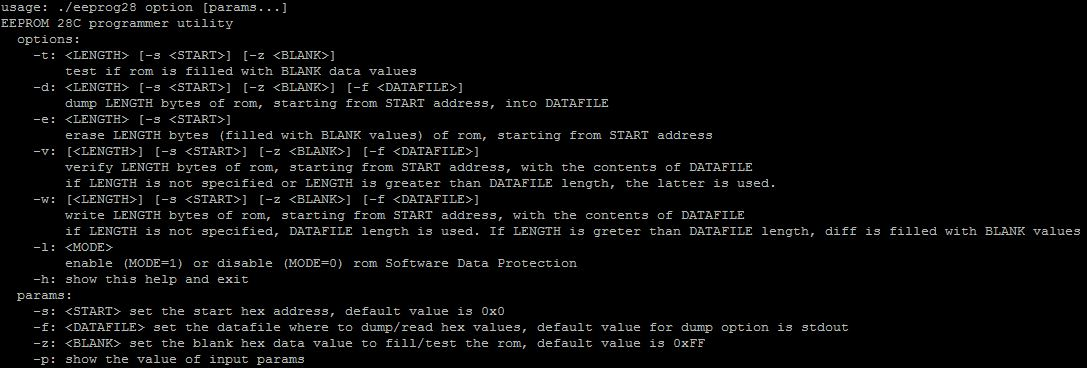
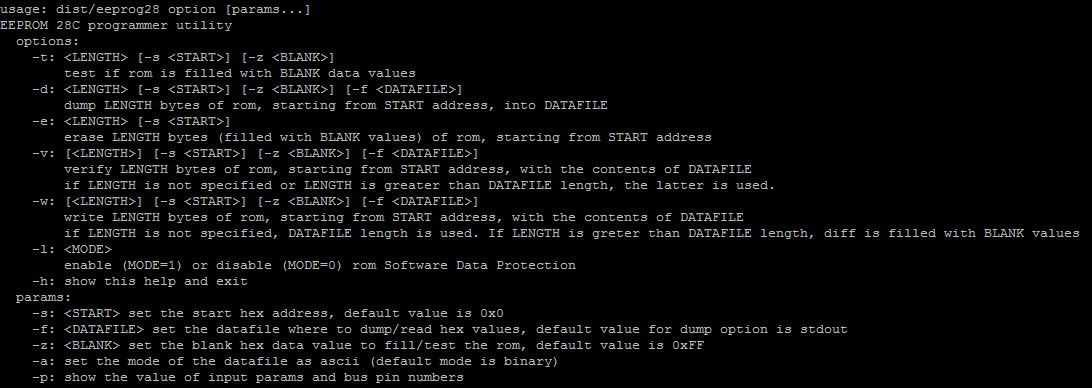
Add software -a option to set datafile mode ascii/binary

Changed region(s): [[0.0, 0.0, 1.0, 0.9864]]

diff --git a/software/src/main.c b/software/src/main.c
@@ -37,6 +37,7 @@ int main(int argc, char **argv)
     unsigned char w_flag = 0;
     unsigned char v_flag = 0;
     unsigned char l_flag = 0;
+    unsigned char a_flag = 0;
     unsigned char p_flag = 0;
     unsigned int start = 0;
     unsigned int length = 0;
@@ -49,7 +50,7 @@ int main(int argc, char **argv)
     wiringPiSetup();
     setup();
 
-    while ((c = getopt(argc, argv, "s:f:z:t:d:e:w::v::l:ph")) != -1)
+    while ((c = getopt(argc, argv, "s:f:z:t:d:e:w::v::l:aph")) != -1)
     {
         switch (c)
         {
@@ -86,6 +87,9 @@ int main(int argc, char **argv)
                 l_flag = 1;
                 if (optarg) sscanf(optarg, "%c", &mode);
                 break;
+            case 'a':
+                a_flag = 1;
+                break;
             case 'p':
                 p_flag = 1;
                 break;
@@ -112,6 +116,7 @@ int main(int argc, char **argv)
                 printf("    -s: <START> set the start hex address, default value is 0x0\n");
                 printf("    -f: <DATAFILE> set the datafile where to dump/read hex values, default value for dump option is stdout\n");
                 printf("    -z: <BLANK> set the blank hex data value to fill/test the rom, default value is 0xFF\n");
+                printf("    -a: set the mode of the datafile as ascii (default mode is binary)\n");
                 printf("    -p: show the value of input params and bus pin numbers\n");
                 return 0;
             case '?':
@@ -132,7 +137,7 @@ int main(int argc, char **argv)
 
     if (p_flag)
     {
-        printf("start-address=%.5X, data-length=%.5X, zero-byte=%.2X, data-file=%s, SDP=%d\n", start, length, zerobyte, filename, mode);
+        printf("start-address=%.5X, data-length=%.5X, zero-byte=%.2X, data-file=%s, data-file-mode=%s, SDP=%d\n", start, length, zerobyte, filename, (a_flag? "ascii":"binary"), mode);
         printf("address bus pins: ");
         for (unsigned char ii=0; ii<BUS_SIZE(A); ii++) printf("%d ", A[ii]);
         printf("\ndata bus pins: ");
@@ -141,7 +146,7 @@ int main(int argc, char **argv)
     }
     if (t_flag)
     {
-        uint32_t count;
+        length_t count;
         if ((count = testROM(start, length, zerobyte)))
             printf("ROM is not empty, found %d data bytes\n", count);
         else
@@ -164,12 +169,31 @@ int main(int argc, char **argv)
         printf("ROM erased.\n");
         return 0;
     }
-    if (w_flag)
+    if (w_flag && !a_flag)
+    {
+        data_t data = 0;
+        address_t address = 0;
+        if (filename) fp = fopen(filename, "rb");
+        printf("Writing ROM with contents of binary file: %s from start 0x%X...\n", filename, start);
+        while (!feof(fp) && address<length)
+        {
+            fread(&data, sizeof(data_t), 1, fp); 
+            writeROM(start+address, data);
+            waitForWriteCycle(start+address, data);
+            address++;
+        }
+        if (filename) fclose(fp);
+        if (address<length)
+            eraseROM(start+address, length-address, zerobyte);
+        printf("0x%X locations of ROM wrote.\n", address);
+        return 0;
+    }
+    if (w_flag && a_flag)
     {
         unsigned int data = 0;
-        uint32_t address = 0;
+        address_t address = 0;
         if (filename) fp = fopen(filename, "r");
-        printf("Writing ROM with contents of file: %s from start 0x%X...\n", filename, start);
+        printf("Writing ROM with contents of ascii file: %s from start 0x%X...\n", filename, start);
         while (fscanf(fp, "%2X", &data) == 1 && address<length)
         {
             writeROM(start+address, data);
@@ -182,25 +206,54 @@ int main(int argc, char **argv)
         printf("0x%X locations of ROM wrote.\n", address);
         return 0;
     }
-    if (v_flag)
+    if (v_flag && !a_flag)
     {
-        unsigned int data = 0;
-        int actual = 0;
-        uint32_t address = 0;
-        if (filename) fp = fopen(filename, "r");
+        address_t address = 0;
+        data_t data = 0;
+        data_t actual = 0;
+        char result = 1;
+        if (filename) fp = fopen(filename, "rb");
         if (!length) length = -1;
-        printf("Verifying ROM with contents of file: %s from start 0x%X...\n", filename, start);
-        while (fscanf(fp, "%2X", &data) == 1 && address-length)
+        printf("Verifying ROM with contents of binary file: %s from start 0x%X...\n", filename, start);
+        while (!feof(fp) && address-length)
         {
+            result = 0;
+            fread(&data, sizeof(data_t), 1, fp);
             actual = readROM(start+address++);
             if (data != actual)
             {
-                data = -1;
+                result = 1;
                 break;
             }
         } 
         if (filename) fclose(fp);
-        if (data == -1)
+        if (result)
+            printf("verify error, found 0x%X at location 0x%X.\n", actual, --address);
+        else
+            printf("verify done.\n");
+        return 0;
+    }
+    if (v_flag && a_flag)
+    {
+        address_t address = 0;
+        unsigned int data = 0;
+        unsigned int actual = 0;
+        char result = 1;
+        if (filename) fp = fopen(filename, "r");
+        if (!length) length = -1;
+        printf("Verifying ROM with contents of ascii file: %s from start 0x%X...\n", filename, start);
+        while (fscanf(fp, "%2X", &data) == 1 && address-length)
+        {
+            result = 0;
+            actual = readROM(start+address++);
+            if (data != actual)
+            {
+                result = 1;
+                break;
+            }
+        } 
+        if (filename) fclose(fp);
+        if (result)
             printf("verify error, found 0x%X at location 0x%X.\n", actual, --address);
         else
             printf("verify done.\n");

diff --git a/software/src/eeprom.c b/software/src/eeprom.c
@@ -35,7 +35,7 @@ uint8_t WE = 29;
 
 void setup()
 {
-    for (unsigned char ii=0; ii<BUS_SIZE(D); ii++)
+    for (unsigned char ii=0; ii<BUS_SIZE(A); ii++)
     {
         pinMode(A[ii], OUTPUT);
         digitalWrite(A[ii], LOW);

diff --git a/CHANGES.md b/CHANGES.md
@@ -2,6 +2,10 @@
 This file contains the log of changes of **EEPROM 28C Programmer** eXPerience.
 
 
+## "mercury" 1.2.0 2020-07-13 Feature release
+- Added software "-a" option to set datafile as ascii vs binary
+
+
 ## "mercury" 1.1.0 2020-07-10 Feature release
 - Added software "-p" option to print the bus pin number of the RasbperryPI GPIOs (wiringPI numbering)
 
